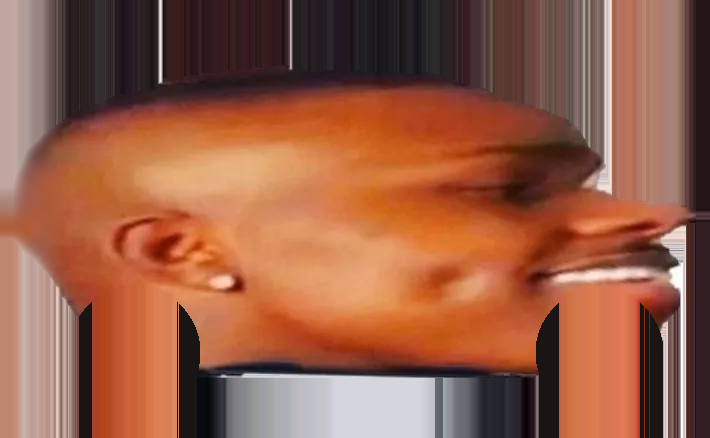
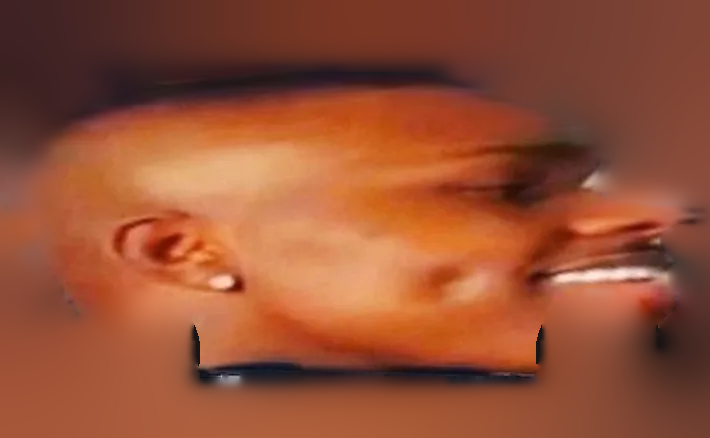
refined dababy

diff --git a/RacingGame/components/HeadCar.cs b/RacingGame/components/HeadCar.cs
@@ -5,25 +5,29 @@ using Raylib_cs;
 // The fifth car: a giant head on wheels, built at load time from a photo.
 //
 // blender/build_headcar.py cleans the photo (assets/models/headcar.png) and traces the head's side
-// profile (assets/models/headcar.json). Here that profile becomes a 3D body: every pixel column is a
-// rounded cross-section as tall as the head at that point, and narrower where the head is short
-// (the nose, the back of the skull). The photo is projected straight through from the side, so both
-// sides show the face and the top picks up the hair.
+// profile (assets/models/headcar.json). Here that profile is inflated into a 3D body: the further a
+// point is from the outline, the wider the body is there, so it rounds over on every edge and thin
+// parts (the nose, the chin) stay thin. The photo is projected straight through from the side; where
+// the surface turns away from the side, Scene3D blurs it so stretched pixels don't show as stripes.
 //
 // Model space matches the Blender cars: metres, x forward, y up, z right, ground at y = 0,
 // origin halfway between the axles (so Scene3D can place the wheels like any other car).
 static unsafe class HeadCar
 {
-    const int Ring = 40;              // vertices around each cross-section
+    const int Ring = 48;              // vertices around each cross-section
     const int Step = 2;               // pixel columns per ring
-    const float HalfWidth = 1.0f;     // metres, at the head's tallest
-    const float Roundness = 3.2f;     // superellipse exponent of the cross-section (2 = ellipse)
+    const float HalfWidth = 1.0f;     // metres, also how far in from the outline the sides are full width
+    const float BottomRound = 0.22f;  // metres: radius of the rounded edge along the sill
+    const float LowerEdge = 2f;       // the head's lower edges (jaw, chin) round over this much more gently
+    const float ThinWidth = 1.1f;     // short parts of the profile are this wide for their height
+    const float SillLine = 330;       // photo y: lower edges below this are the car's sill and arches
 
     public static Texture2D Texture { get; private set; }
     public static Texture2D Icon { get; private set; }      // the original photo, transparent background
     public static Rectangle PhotoArea { get; private set; } // the car inside the photo, for the menu icon
     public static float WheelRadius, Wheelbase, Length, Width;
     public static Color Skin;
+    public const float EdgeBlur = 3.5f; // mipmap levels of blur on surfaces facing forwards, back or up
 
     // Ray-tracing proxy: a few boxes along the car that enclose the head (model space, metres)
     public static readonly List<(Vector3 Centre, Vector3 Half)> Proxy = new();
@@ -50,55 +54,101 @@ static unsafe class HeadCar
         float minTop = top.Min();
         PhotoArea = new Rectangle(x0, minTop, top.Length, groundY - minTop);
 
-        // Cross-sections
-        int cols = (top.Length - 1) / Step + 1;
-        float maxH = 0;
-        for (int c = 0; c < top.Length; c++) maxH = Math.Max(maxH, bottom[c] - top[c]);
+        // The silhouette's outline, for the inflation below. Under the wheel arches and along the sill the
+        // body should stay full like a car's, so only the head's own lower edges (jaw, chin, under the nose)
+        // count there.
+        int n = top.Length;
+        // Smooth out the tracing's wiggles (they would ripple the whole side), then round off both ends
+        // so the back of the skull and the nose close in a dome instead of a vertical edge
+        top = Smooth(top, 6); bottom = Smooth(bottom, 4);
+        foreach (bool front in new[] { false, true })
+        {
+            int end = front ? n - 1 : 0;
+            float reach = (bottom[end] - top[end]) / 2;
+            for (int step = 0; step < reach && step < n / 4; step++)
+            {
+                int k = front ? n - 1 - step : step;
+                float mid = (top[k] + bottom[k]) / 2, f = Quarter(step / reach);
+                top[k] = mid - (mid - top[k]) * f;
+                bottom[k] = mid + (bottom[k] - mid) * f;
+            }
+        }
+        var outline = new List<Vector3>(); // x, y, and how much a distance to it counts
+        for (int k = 0; k < n; k++)
+        {
+            float px = x0 + k;
+            outline.Add(new Vector3(px, top[k], 1));
+            bool arch = wheels.Any(w => Math.Abs(px - w.X) < w.R + 8);
+            if (bottom[k] < SillLine && !arch) outline.Add(new Vector3(px, bottom[k], LowerEdge));
+        }
+        foreach (int k in new[] { 0, n - 1 })
+            for (float y = top[k]; y <= bottom[k]; y += 1) outline.Add(new Vector3(x0 + k, y, 1));
+        Vector3[] outlinePts = outline.ToArray();
 
-        int vertexCount = cols * Ring + 2;
-        int triCount = (cols - 1) * Ring * 2 + Ring * 2;
+        // How tall the head is at each column, for how tightly it rounds over (below). Wheel arches
+        // don't count, and it changes slowly, or the body would bulge in and out over the wheels.
+        var height = new float[n];
+        for (int k = 0; k < n; k++)
+        {
+            bool arch = wheels.Any(w => Math.Abs(x0 + k - w.X) < w.R + 8);
+            height[k] = (arch ? SillLine : Math.Min(bottom[k], SillLine)) - top[k];
+        }
+        height = Smooth(height, 6);
+
+        // Thickness: the silhouette is "inflated" like a balloon. A point's half-width grows with its
+        // distance from the outline along a quarter circle, so every edge rounds over (seen from the front,
+        // the top or the back) and thin parts of the profile, like the nose, stay thin.
+        float roundPx = HalfWidth / mpp, bottomPx = BottomRound / mpp;
+        float HalfWidthAt(int k, float px, float py, float b)
+        {
+            float best = float.MaxValue;
+            foreach (Vector3 o in outlinePts)
+            {
+                float dx = (o.X - px) * o.Z;
+                if (dx * dx >= best) continue;
+                float dy = (o.Y - py) * o.Z;
+                best = Math.Min(best, dx * dx + dy * dy);
+            }
+            // Where the profile is short (nose, chin, the back of the skull) the rounding is tighter, so
+            // those parts end up about as wide as they are tall rather than ballooning out
+            float r = Math.Max(Math.Min(roundPx, ThinWidth * height[k] / 2), 0.5f);
+            return r * mpp * Quarter(MathF.Sqrt(best) / r) * Quarter((b - py) / bottomPx);
+        }
+
+        int cols = (n - 1) / Step + 1;
+        int vertexCount = cols * Ring;
         var pos = new Vector3[vertexCount];
         var uv = new Vector2[vertexCount];
-        var halfW = new float[cols];
-
         for (int c = 0; c < cols; c++)
         {
-            int k = Math.Min(c * Step, top.Length - 1);
-            float px = x0 + k, t = top[k], b = bottom[k];
-            float h = Math.Max(b - t, 0.5f);
+            int k = Math.Min(c * Step, n - 1);
+            float px = x0 + k, t = top[k], b = Math.Max(bottom[k], top[k] + 0.5f);
             float x = (px - originX) * mpp;
-            float yc = (groundY - (t + b) / 2) * mpp, hh = h / 2 * mpp;
-            // Short parts of the profile (nose, back of the skull) are narrow; sqrt keeps the ends round
-            float hw = HalfWidth * MathF.Sqrt(Math.Clamp(h / (0.65f * maxH), 0.02f, 1f));
-            halfW[c] = hw;
             for (int i = 0; i < Ring; i++)
             {
+                // Round the ring from the top (i = 0) down the right side, along the bottom and back up the
+                // left; cosine spacing puts more vertices where the surface turns over the top and bottom
                 float a = i * MathF.Tau / Ring;
-                float z = hw * SignedPow(MathF.Cos(a), 2 / Roundness);
-                float y = yc + hh * SignedPow(MathF.Sin(a), 2 / Roundness);
-                pos[c * Ring + i] = new Vector3(x, y, z);
-                // Straight side projection, kept inside the outline: the top picks up the hair rather than
-                // the anti-aliased edge, the back of the head the skin rather than the photo's last column
-                float py = Math.Clamp(groundY - y / mpp, t + Math.Min(10, h * 0.4f), b - Math.Min(3, h * 0.2f));
-                uv[c * Ring + i] = new Vector2(Math.Clamp(px, x0 + 22, x0 + top.Length - 8) / imgW, py / imgH);
+                float py = (t + b) / 2 - (b - t) / 2 * MathF.Cos(a);
+                pos[c * Ring + i] = new Vector3(x, (groundY - py) * mpp, HalfWidthAt(k, px, py, b));
+                // The photo, projected straight through from the side (just inside the anti-aliased outline)
+                uv[c * Ring + i] = new Vector2(Math.Clamp(px, x0 + 2, x0 + n - 3) / imgW, Math.Clamp(py, t + Math.Min(2, (b - t) * 0.4f), b - Math.Min(1, (b - t) * 0.2f)) / imgH);
             }
         }
 
-        // End caps: a point just past each end, in the middle of the last cross-section
-        int back = cols * Ring, front = back + 1;
-        for (int e = 0; e < 2; e++)
+        // Even out the width along the length (the nearest outline point jumps around, which ripples the
+        // sides), then put each vertex on its side
+        var width = new float[cols];
+        for (int i = 0; i < Ring; i++)
         {
-            int c = e == 0 ? 0 : cols - 1;
-            Vector3 centre = Vector3.Zero;
-            for (int i = 0; i < Ring; i++) centre += pos[c * Ring + i];
-            centre /= Ring;
-            centre.X += (e == 0 ? -1 : 1) * 0.6f * halfW[c] * 0.3f;
-            pos[back + e] = centre;
-            int k = Math.Min(c * Step, top.Length - 1);
-            uv[back + e] = new Vector2((x0 + k + (e == 0 ? 22 : -8)) / (float)imgW, (top[k] + bottom[k]) / 2 / imgH);
+            for (int c = 0; c < cols; c++) width[c] = pos[c * Ring + i].Z;
+            width = Smooth(width, 6);
+            float sin = MathF.Sin(i * MathF.Tau / Ring);
+            float side = MathF.Abs(sin) < 1e-4f ? 0 : MathF.Sign(sin);
+            for (int c = 0; c < cols; c++) pos[c * Ring + i].Z = side * width[c];
         }
 
-        var idx = new List<ushort>(triCount * 3);
+        var idx = new List<ushort>((cols - 1) * Ring * 6);
         void Tri(int a, int b, int c) { idx.Add((ushort)a); idx.Add((ushort)b); idx.Add((ushort)c); }
         for (int c = 0; c < cols - 1; c++)
             for (int i = 0; i < Ring; i++)
@@ -108,18 +158,12 @@ static unsafe class HeadCar
                 Tri(a, b, e);
                 Tri(a, e, d);
             }
-        for (int i = 0; i < Ring; i++)
-        {
-            Tri(back, (i + 1) % Ring, i);
-            int l = (cols - 1) * Ring;
-            Tri(front, l + i, l + (i + 1) % Ring);
-        }
 
-        // Face the triangles outwards (check one on the side of the middle section)
+        // Face the triangles outwards (check one on the right side of the middle section)
         {
-            int c = cols / 2, a = c * Ring, b = a + 1, e = b + Ring;
-            Vector3 n = Vector3.Cross(pos[b] - pos[a], pos[e] - pos[a]);
-            if (n.Z < 0)
+            int c = cols / 2, a = c * Ring + Ring / 4, b = a + 1, e = b + Ring;
+            Vector3 nn = Vector3.Cross(pos[b] - pos[a], pos[e] - pos[a]);
+            if (nn.Z < 0)
                 for (int i = 0; i < idx.Count; i += 3) (idx[i + 1], idx[i + 2]) = (idx[i + 2], idx[i + 1]);
         }
 
@@ -160,29 +204,66 @@ static unsafe class HeadCar
         return model;
     }
 
-    // Four boxes along the length, each wrapping its stretch of the body
+    // Four boxes along the length, each fitted just inside its stretch of the body. Inside, not around:
+    // a shadow ray leaving the body's surface must not hit the car's own boxes, or the steps between
+    // them throw stripes of shadow over the roof.
     static void BuildProxy(Vector3[] pos, int cols)
     {
         Proxy.Clear();
+        // Per cross-section: a rectangle that fits inside it with a margin to spare: 60% of the full
+        // width, and the heights where the body is at least that wide plus the margin
+        const float margin = 0.12f;
+        var inner = new (float X, float Lo, float Hi, float Half)[cols];
+        for (int c = 0; c < cols; c++)
+        {
+            float maxZ = 0;
+            for (int i = 0; i < Ring; i++) maxZ = Math.Max(maxZ, pos[c * Ring + i].Z);
+            float half = 0.6f * maxZ, lo = float.MaxValue, hi = float.MinValue;
+            for (int i = 0; i < Ring; i++)
+            {
+                Vector3 v = pos[c * Ring + i];
+                if (v.Z < half + margin) continue;
+                lo = Math.Min(lo, v.Y); hi = Math.Max(hi, v.Y);
+            }
+            inner[c] = (pos[c * Ring].X, lo + margin, hi - margin, half);
+        }
+        // Leave out the narrow tips (nose, back of the skull)
+        int first = Array.FindIndex(inner, s => s.Half > 0.45f && s.Hi > s.Lo);
+        int last = Array.FindLastIndex(inner, s => s.Half > 0.45f && s.Hi > s.Lo);
         const int parts = 4;
         for (int p = 0; p < parts; p++)
         {
-            int c0 = p * (cols - 1) / parts, c1 = (p + 1) * (cols - 1) / parts;
-            Vector3 lo = new(float.MaxValue), hi = new(float.MinValue);
-            for (int c = c0; c <= c1; c++)
-                for (int i = 0; i < Ring; i++)
-                {
-                    lo = Vector3.Min(lo, pos[c * Ring + i]);
-                    hi = Vector3.Max(hi, pos[c * Ring + i]);
-                }
-            if (p == 0) lo.X = pos[cols * Ring].X;
-            if (p == parts - 1) hi.X = pos[cols * Ring + 1].X;
-            Vector3 half = (hi - lo) / 2 + new Vector3(0.01f);
-            Proxy.Add(((lo + hi) / 2, half));
+            int c0 = first + p * (last - first) / parts, c1 = first + (p + 1) * (last - first) / parts;
+            var seg = inner[c0..(c1 + 1)];
+            // Inside every cross-section it spans
+            float lo = seg.Max(s => s.Lo), hi = seg.Min(s => s.Hi), half = seg.Min(s => s.Half);
+            if (hi <= lo) continue;
+            Proxy.Add((new Vector3((seg[0].X + seg[^1].X) / 2, (lo + hi) / 2, 0),
+                       new Vector3((seg[^1].X - seg[0].X) / 2, (hi - lo) / 2, half)));
         }
     }
 
-    static float SignedPow(float v, float e) => MathF.Sign(v) * MathF.Pow(MathF.Abs(v), e);
+    // Gaussian blur of a 1D array (edges held)
+    static float[] Smooth(float[] v, float sigma)
+    {
+        int r = (int)MathF.Ceiling(sigma * 2.5f);
+        var w = Enumerable.Range(-r, 2 * r + 1).Select(j => MathF.Exp(-j * j / (2 * sigma * sigma))).ToArray();
+        var o = new float[v.Length];
+        for (int k = 0; k < v.Length; k++)
+        {
+            float sum = 0, ws = 0;
+            for (int j = -r; j <= r; j++) { sum += v[Math.Clamp(k + j, 0, v.Length - 1)] * w[j + r]; ws += w[j + r]; }
+            o[k] = sum / ws;
+        }
+        return o;
+    }
+
+    // A quarter circle: 0 at the edge, rising steeply, levelling off at 1
+    static float Quarter(float s)
+    {
+        s = Math.Clamp(s, 0, 1);
+        return MathF.Sqrt(1 - (1 - s) * (1 - s));
+    }
 
     public static void Unload()
     {

diff --git a/RacingGame/blender/build_headcar.py b/RacingGame/blender/build_headcar.py
@@ -6,7 +6,9 @@
 # Output (RacingGame/assets/models/):
 #   headcar.png   the photo, cleaned up: the photo's own wheels and the gaps around them are painted
 #                 as dark wheel arches (the game draws real 3D wheels there), white background showing
-#                 through inside the head is filled in, and a stray UI button is removed.
+#                 through inside the head is filled in, a stray UI button is removed, and everything
+#                 outside the outline is filled smoothly with the head's colours (the 3D body wraps
+#                 the photo's edges over its roof, nose and back).
 #   headcar_icon.png  the original photo on a transparent background, for the menu
 #   headcar.json  side profile of the head (top / bottom edge per pixel column), wheel positions and
 #                 the size of a pixel in metres. Scene3D builds a rounded 3D body from the profile and
@@ -112,23 +114,49 @@ by, bx = np.where(in_button)
 icon[by, bx, :3] = img[by, bx + 2 * BUTTON[2] + 4]
 Image.fromarray(icon).save(os.path.join(OUT, "headcar_icon.png"))
 
+from PIL import ImageFilter
+
+# Outside the head (and in the anti-aliased rim just inside the outline), fill in smoothly from the
+# head's own colours. The 3D body rounds over at the outline, so the rim is stretched over the roof,
+# the nose and the back of the head, and blurry (mipmapped) lookups reach past it: a smooth fill keeps
+# both free of white fringe and streaks.
+def push_pull(colour, known):
+    """Fill the unknown pixels with a smooth blend of the known ones (a pyramid fill)."""
+    if min(known.shape) <= 2 or known.all():
+        return np.where(known[..., None], colour, (colour * known[..., None]).sum((0, 1)) / max(known.sum(), 1))
+    h2, w2 = (known.shape[0] + 1) // 2, (known.shape[1] + 1) // 2
+    pc = np.zeros((h2 * 2, w2 * 2, 3)); pk = np.zeros((h2 * 2, w2 * 2))
+    pc[:known.shape[0], :known.shape[1]] = colour * known[..., None]
+    pk[:known.shape[0], :known.shape[1]] = known
+    sc = pc.reshape(h2, 2, w2, 2, 3).sum((1, 3)); sk = pk.reshape(h2, 2, w2, 2).sum((1, 3))
+    coarse = push_pull(sc / np.maximum(sk, 1e-6)[..., None], sk > 0)
+    up = np.stack([np.asarray(Image.fromarray(coarse[..., ch].astype(np.float32), "F")
+                              .resize((w2 * 2, h2 * 2), Image.BILINEAR)) for ch in range(3)], -1)
+    up = up[:known.shape[0], :known.shape[1]]
+    return np.where(known[..., None], colour, up)
+
+# Known = inside the outline, not near-white (the anti-aliased rim), a few pixels in from the edge.
+# The teeth are white but real; they stop short of the front edge so they don't smear over the nose.
+lo3 = tex.min(axis=2)
+known = (yy >= top_s[None, :] + 2) & (yy <= bottom_s[None, :]) & (xx >= x0 + 2) & (xx <= x1 - 2)
+known &= (lo3 < 190) | (teeth & (xx < 655))
+known = np.asarray(Image.fromarray((known * 255).astype(np.uint8)).filter(ImageFilter.MinFilter(7))) > 0
+tex = push_pull(tex.astype(np.float64), known)
+
+# Where the body curves over the roof, the photo's top rows are stretched across it, so pixel-to-pixel
+# changes along the hairline show up as stripes: smooth the band under the top edge along the length.
+k = 25
+row_blur = np.apply_along_axis(lambda r: np.convolve(np.pad(r, k // 2, mode="edge"), np.ones(k) / k, mode="valid"), 1, tex)
+w = np.clip(1 - (yy - top_s[None, :]) / 45, 0, 1)[..., None]
+tex = tex * (1 - w) + row_blur * w
+
 # The back of the head is seen end-on (it's what you look at while racing), where the side
 # projection stretches its pixels into stripes: blur that part of the photo vertically
-from PIL import ImageFilter
-back = Image.fromarray(tex[:, x0:x0 + 60].astype(np.uint8))
-back = np.asarray(back.filter(ImageFilter.GaussianBlur(7))).astype(np.int32)
+back = Image.fromarray(tex[:, x0:x0 + 60].clip(0, 255).astype(np.uint8))
+back = np.asarray(back.filter(ImageFilter.GaussianBlur(7)))
 ramp = np.clip((np.arange(60) - 30) / 30, 0, 1)[None, :, None]   # fade back to sharp by the ear
-tex[:, x0:x0 + 60] = (back * (1 - ramp) + tex[:, x0:x0 + 60] * ramp).astype(np.int32)
+tex[:, x0:x0 + 60] = (back * (1 - ramp) + tex[:, x0:x0 + 60] * ramp)
 
-# Outside the head, repeat the edge colours outwards so that blurry (far away, mipmapped)
-# texture lookups near the outline don't pick up white background
-for x in range(W):
-    xc = min(max(x, x0 + 3), x1 - 4)
-    t, b = int(top_s[xc]) + 4, int(bottom_s[xc]) - 2
-    tex[:t, x] = tex[t, xc]
-    tex[b:, x] = tex[b, xc]
-    if x != xc:
-        tex[t:b, x] = tex[t:b, xc]
 
 Image.fromarray(tex.astype(np.uint8)).save(os.path.join(OUT, "headcar.png"))
 

diff --git a/RacingGame/components/Scene3D.cs b/RacingGame/components/Scene3D.cs
@@ -22,7 +22,7 @@ static unsafe class Scene3D
     static readonly Dictionary<CarType, CarModels> cars = new();
     static Model wheel, pine, round, gantry, platform;
     static Shader lit, ground, rtShadow;
-    static int litViewPos, litFog, litFogColor, litReflect, groundViewPos, groundFog, groundFogColor, rtViewPos, rtFog;
+    static int litViewPos, litFog, litFogColor, litReflect, litTexBlur, litTexSide, groundViewPos, groundFog, groundFogColor, rtViewPos, rtFog;
     static bool loaded;
 
     public static Vector3 W(Vector2 p, float height = 0) => new(p.X, height, p.Y);
@@ -35,6 +35,8 @@ static unsafe class Scene3D
         ground = Raylib.LoadShaderFromMemory(GroundVs, GroundFs);
         rtShadow = Raylib.LoadShaderFromMemory(GroundVs, RayTracing.ShadowFs);
         litReflect = Raylib.GetShaderLocation(lit, "reflectivity");
+        litTexBlur = Raylib.GetShaderLocation(lit, "texBlur");
+        litTexSide = Raylib.GetShaderLocation(lit, "texSide");
         rtViewPos = Raylib.GetShaderLocation(rtShadow, "viewPos");
         rtFog = Raylib.GetShaderLocation(rtShadow, "fogRange");
         Raylib.SetShaderValue(rtShadow, Raylib.GetShaderLocation(rtShadow, "sunDir"), SunDir, ShaderUniformDataType.Vec3);
@@ -244,7 +246,11 @@ static unsafe class Scene3D
         {
             // The photo is the paint job: skin keeps its own colour, with a faint sheen
             Reflect(0.08f);
+            float a = -pose.Heading;
+            Raylib.SetShaderValue(lit, litTexSide, new Vector3(MathF.Sin(a), 0, MathF.Cos(a)), ShaderUniformDataType.Vec3);
+            Raylib.SetShaderValue(lit, litTexBlur, HeadCar.EdgeBlur, ShaderUniformDataType.Float);
             Raylib.DrawModelEx(paint, pos, up, yaw, scl, Color.White);
+            Raylib.SetShaderValue(lit, litTexBlur, 0f, ShaderUniformDataType.Float);
         }
         else
         {
@@ -327,6 +333,8 @@ uniform vec3 viewPos;
 uniform vec3 fogColor;
 uniform vec2 fogRange;
 uniform float reflectivity;
+uniform float texBlur;  // head car: blur the side-projected photo where the surface turns away from the side
+uniform vec3 texSide;   // the car's sideways axis
 " + RayTracing.Glsl + RayTracing.ReflectGlsl + @"
 out vec4 finalColor;
 void main() {
@@ -337,7 +345,8 @@ void main() {
     if (rtOn == 1 && diff > 0.0) diff *= 1.0 - rtShadow(fragPos, n);
     float hemi = 0.5 + 0.5 * n.y;
     vec3 ambient = mix(vec3(0.26, 0.27, 0.24), vec3(0.50, 0.56, 0.66), hemi);
-    vec3 albedo = colDiffuse.rgb * texture(texture0, fragTexCoord).rgb;
+    float facing = abs(dot(n, texSide));
+    vec3 albedo = colDiffuse.rgb * texture(texture0, fragTexCoord, texBlur * (1.0 - smoothstep(0.1, 0.75, facing))).rgb;
     vec3 col = albedo * (ambient + vec3(1.0, 0.95, 0.86) * diff * 0.80);
     vec3 h = normalize(l + v);
     col += pow(max(dot(n, h), 0.0), 48.0) * 0.30 * diff;
